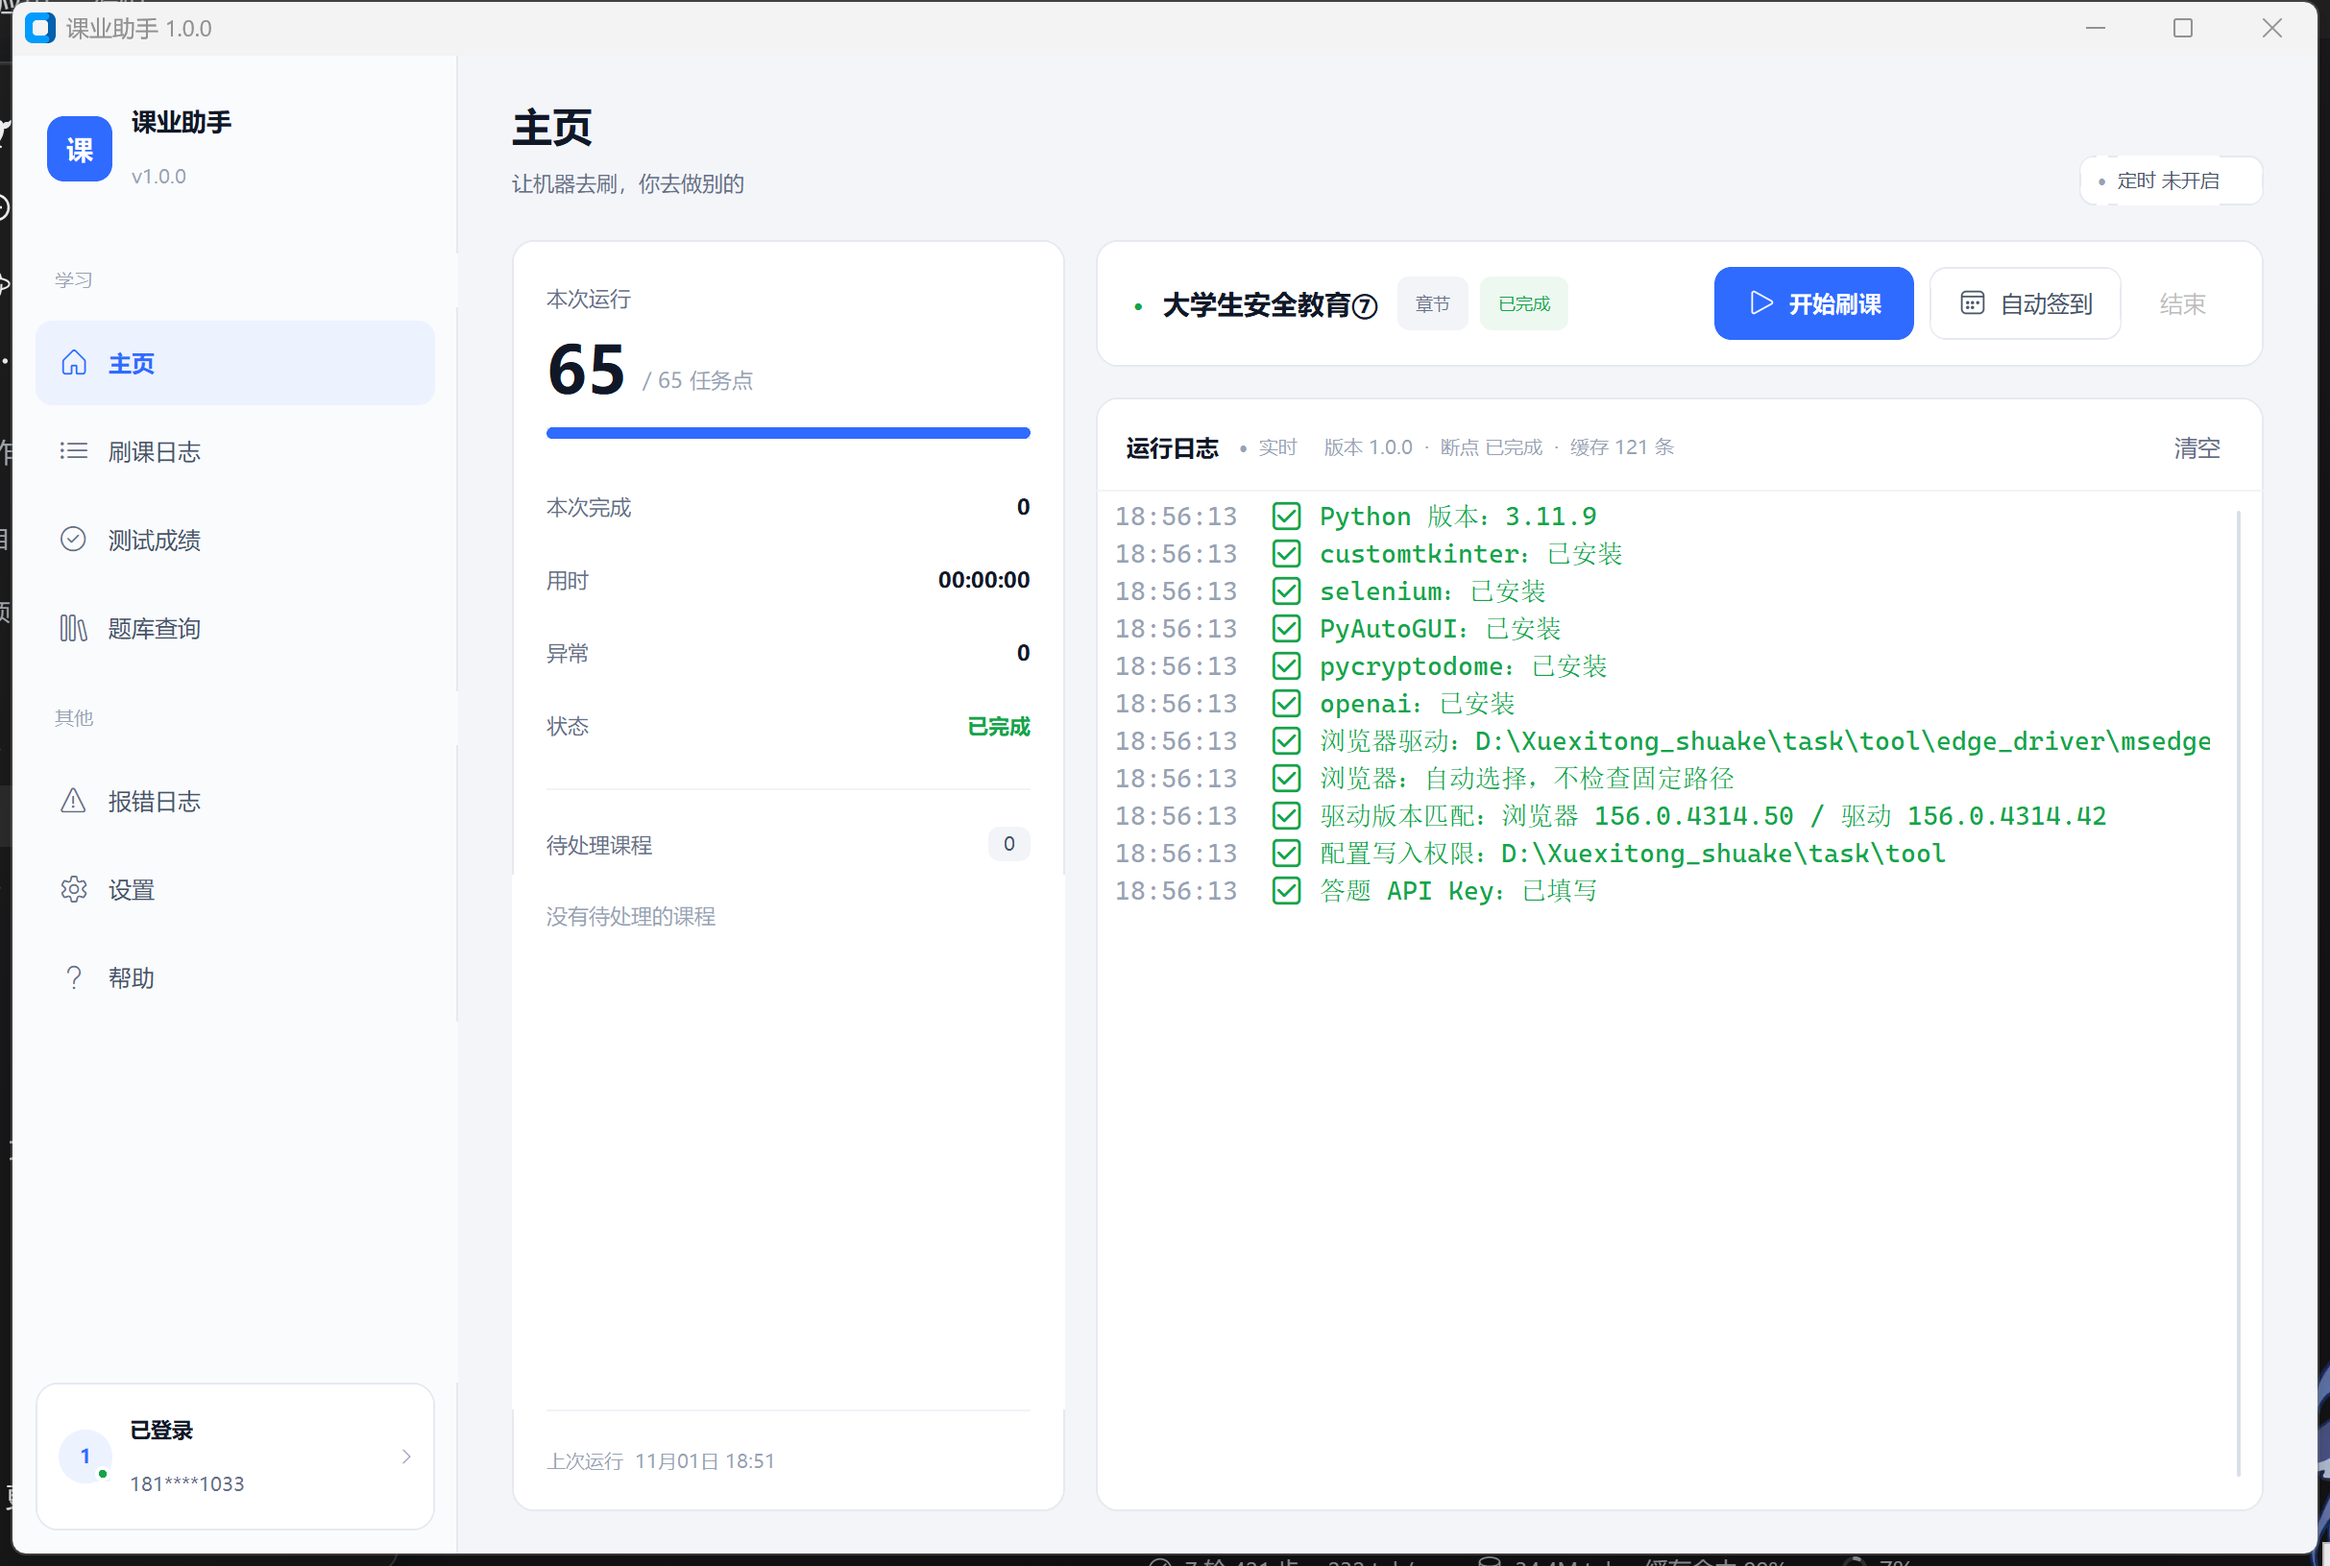
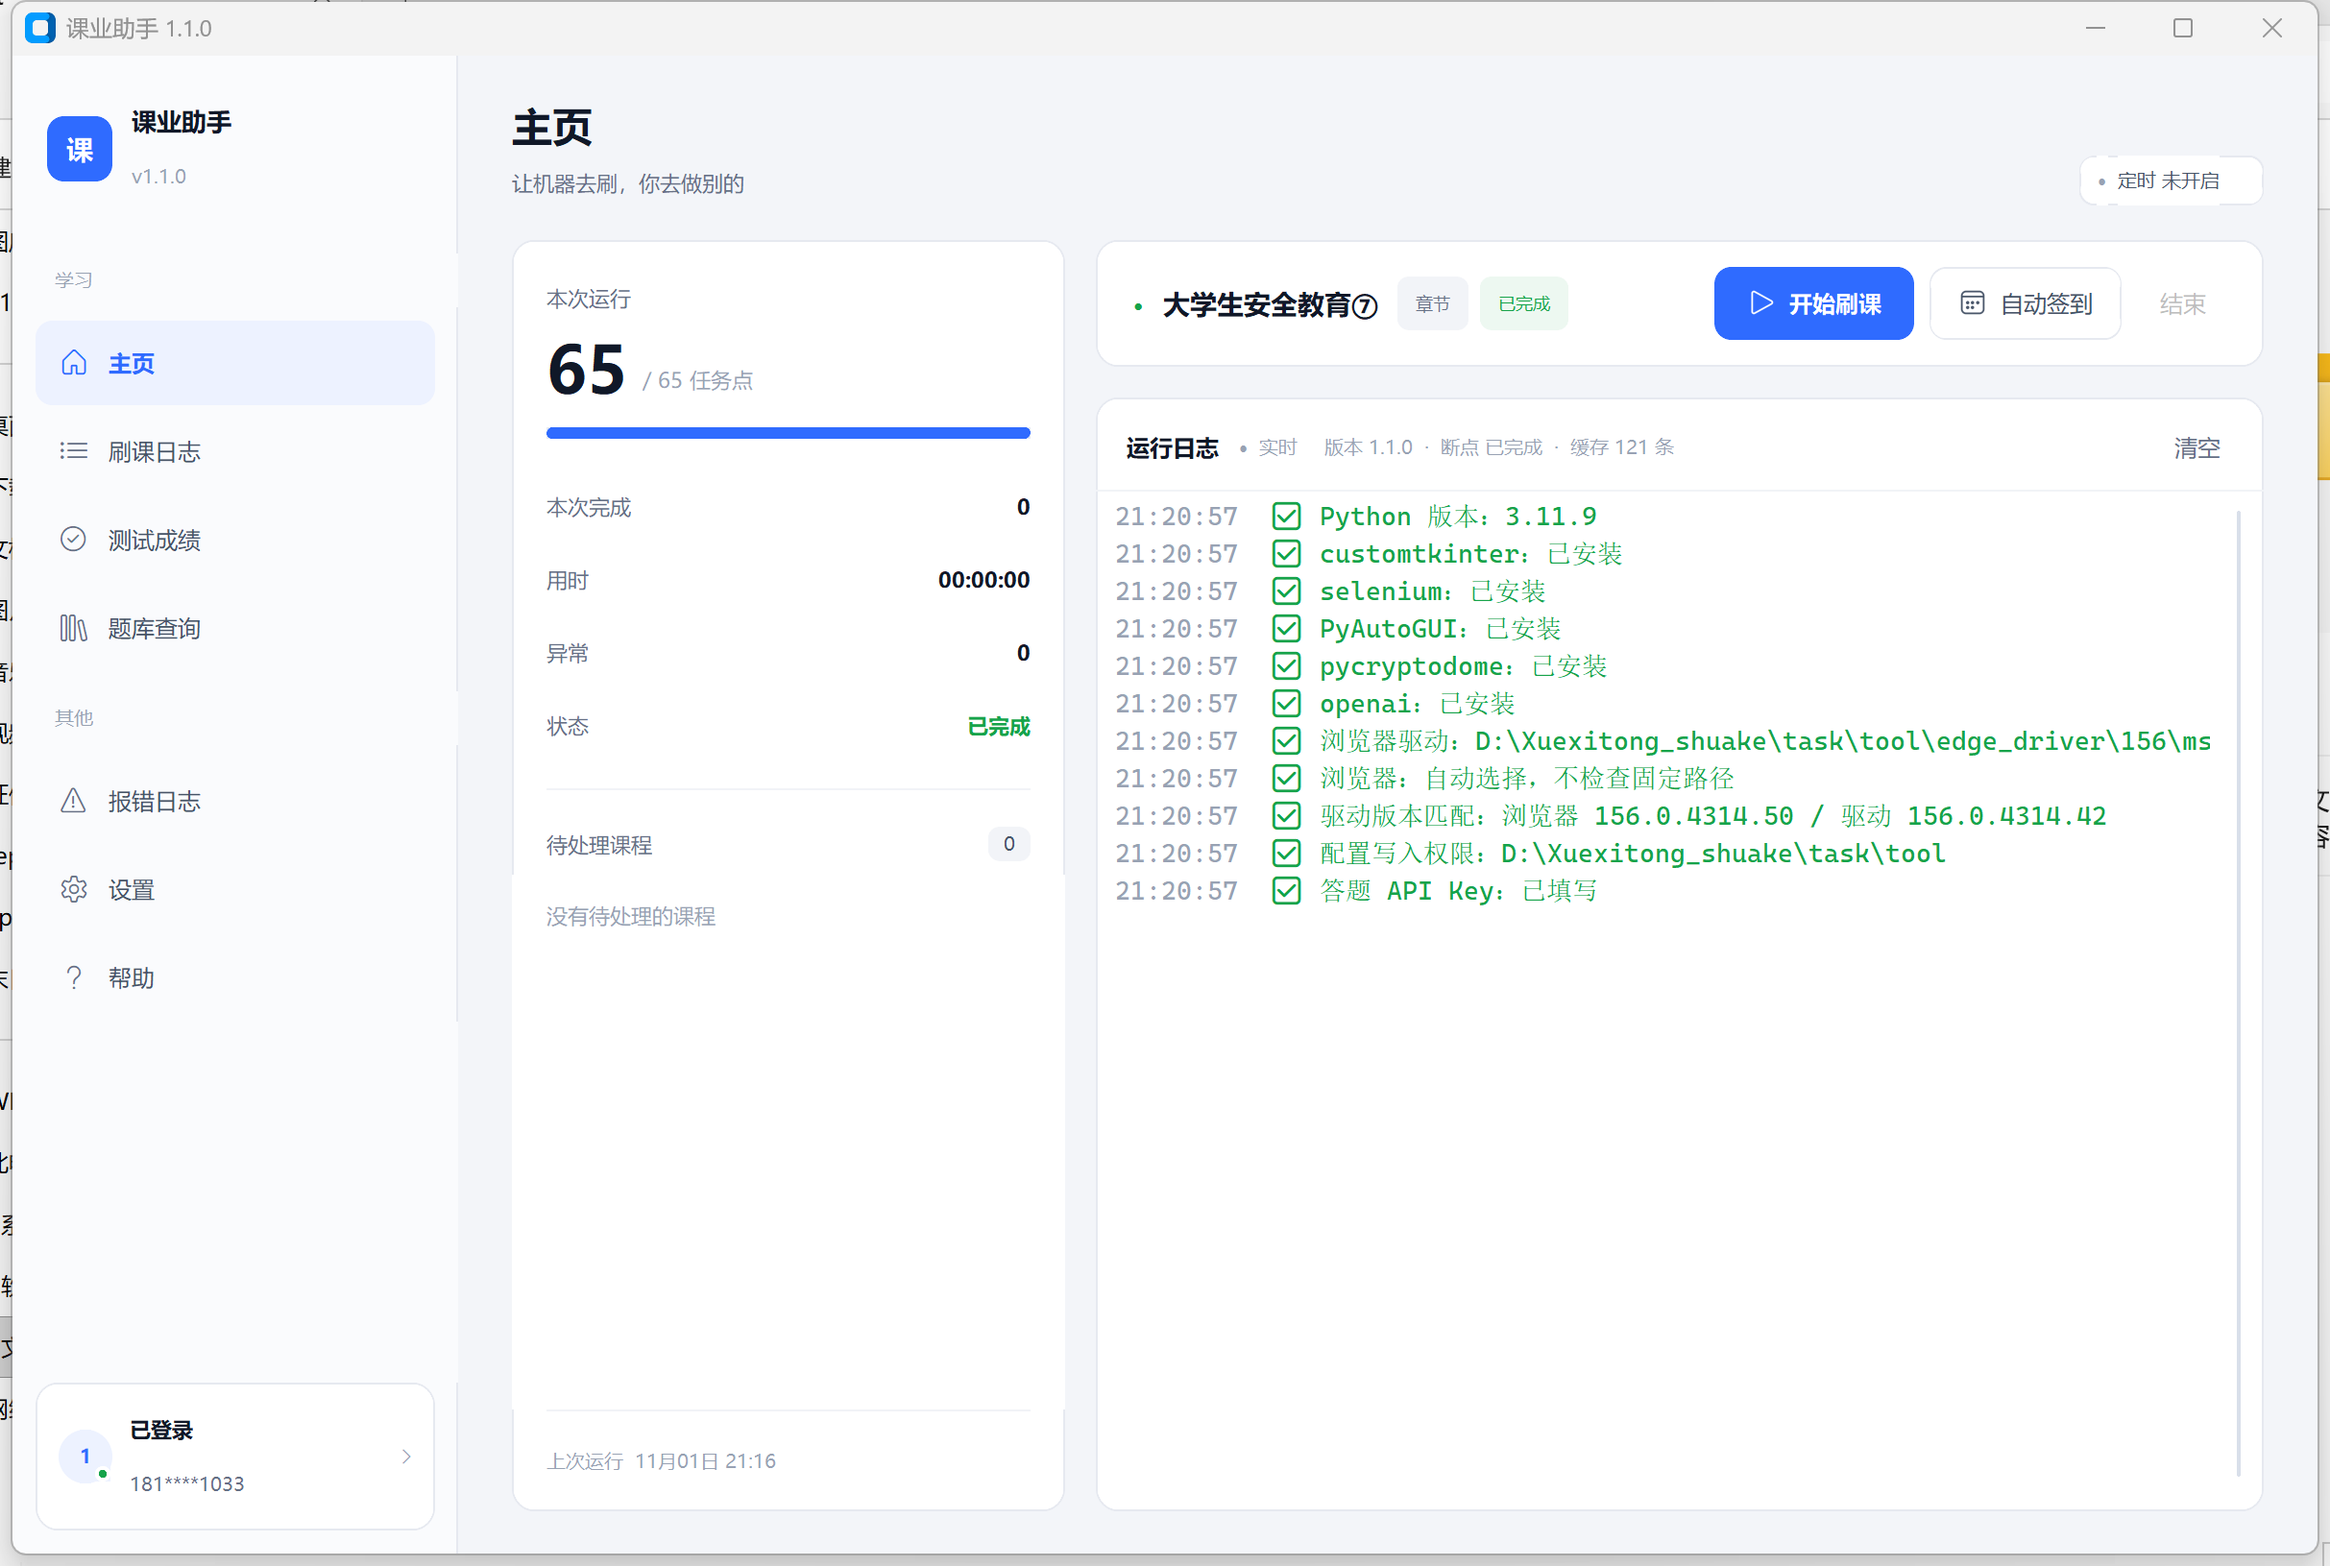
修驱动选择：浏览器选项是中文时不再误判成在线获取
- resolve_driver 把设置页里的「不指定浏览器」等中文选项按 Edge 处理，
  之前会当成未知浏览器，读不到版本就整个回退 Selenium Manager
- 读不到浏览器版本时优先用自带驱动（主版本最大的），不再无脑联网
- 补两条测试；README 截图同步到 1.1.0 版本号

diff --git a/core/browser.py b/core/browser.py
@@ -176,6 +176,15 @@ def _pick_by_major(installed) -> Path | None:
     return drivers.get(str(major[0]))
 
 
+def _any_bundled() -> Path | None:
+    """随便挑一个自带驱动：主版本号最大的优先，老扁平布局最后兜底。"""
+    drivers = bundled_drivers()
+    majors = [name for name in drivers if name.isdigit()]
+    if majors:
+        return drivers[max(majors, key=int)]
+    return drivers.get("flat")
+
+
 def resolve_driver(browser: str, driver_path: str = "") -> tuple[str, str]:
     """决定用哪个驱动。
 
@@ -193,12 +202,21 @@ def resolve_driver(browser: str, driver_path: str = "") -> tuple[str, str]:
             path = (ROOT / path).resolve()
         if path.is_file():
             return "custom", str(path)
-    if (browser or "").lower() == "chrome":
+    name = (browser or "").lower()
+    if name not in BROWSER_PATHS:
+        # 设置页里存的是「不指定浏览器」这类中文选项，按 Edge 处理
+        name = "edge"
+    if name == "chrome":
         return "manager", ""
-    installed = browser_version(browser or "edge")
+    installed = browser_version(name)
     matched = _pick_by_major(installed)
     if matched is not None:
         return "bundled", str(matched)
+    if not installed:
+        # 读不到浏览器版本（没装 / 权限受限）时，有内置驱动就直接用，别去联网
+        fallback = _any_bundled()
+        if fallback is not None:
+            return "bundled", str(fallback)
     if not BUNDLED_DRIVER.is_file():
         return "manager", ""
     if installed:

diff --git a/mockups/preview_ui.py b/mockups/preview_ui.py
@@ -12,6 +12,9 @@ from __future__ import annotations
 import ctypes
 import os
 import sys
+
+sys.path.insert(0, os.path.dirname(os.path.dirname(os.path.abspath(__file__))))
+from version import APP_VERSION  # noqa: E402
 import time
 import tkinter as tk
 from pathlib import Path
@@ -125,7 +128,7 @@ def sidebar(root, active="home"):
     txt.pack(side="left", padx=(10, 0))
     ctk.CTkLabel(txt, text="课业助手", font=F(13, "bold"), text_color=INK,
                  anchor="w").pack(anchor="w")
-    ctk.CTkLabel(txt, text="v1.0.0", font=F(10), text_color=INK_4,
+    ctk.CTkLabel(txt, text=f"v{APP_VERSION}", font=F(10), text_color=INK_4,
                  anchor="w").pack(anchor="w")
 
     def group(title, items, top=22):
@@ -322,7 +325,7 @@ def preview_a(root):
     lh.pack(fill="x", padx=16, pady=(12, 8))
     ctk.CTkLabel(lh, text="运行日志", font=F(12, "bold"), text_color=INK).pack(side="left")
     ctk.CTkLabel(lh, text="● 实时", font=F(10), text_color=OK).pack(side="left", padx=(10, 0))
-    ctk.CTkLabel(lh, text="版本 1.0.0 · 断点 已完成 · 缓存 121 条", font=F(10),
+    ctk.CTkLabel(lh, text=f"版本 {APP_VERSION} · 断点 已完成 · 缓存 121 条", font=F(10),
                  text_color=INK_4).pack(side="left", padx=(14, 0))
     ctk.CTkLabel(lh, text="清空", font=F(10), text_color=INK_4).pack(side="right")
     tk.Frame(logcard, height=1, bg=LINE_SOFT).pack(fill="x")

diff --git a/tests/test_browser_pick.py b/tests/test_browser_pick.py
@@ -154,6 +154,21 @@ class DriverMatrixTests(unittest.TestCase):
         self.assertEqual(source, "bundled")
         self.assertEqual(path, str(matrix))
 
+    def test_chinese_browser_option_treated_as_edge(self):
+        """设置页存的是「不指定浏览器」，不能因此当成未知浏览器去联网取驱动。"""
+        matrix = self._make_driver("156")
+        with mock.patch.object(browser_module, "browser_version", return_value="156.0.4314.50"):
+            source, path = browser_module.resolve_driver("不指定浏览器", "")
+        self.assertEqual(source, "bundled")
+        self.assertEqual(path, str(matrix))
+
+    def test_unreadable_browser_version_uses_bundled_driver(self):
+        matrix = self._make_driver("157")
+        with mock.patch.object(browser_module, "browser_version", return_value=None):
+            source, path = browser_module.resolve_driver("edge", "")
+        self.assertEqual(source, "bundled")
+        self.assertEqual(path, str(matrix))
+
 
 class DriverStateTests(unittest.TestCase):
     def test_state_reports_versions_and_match(self):
